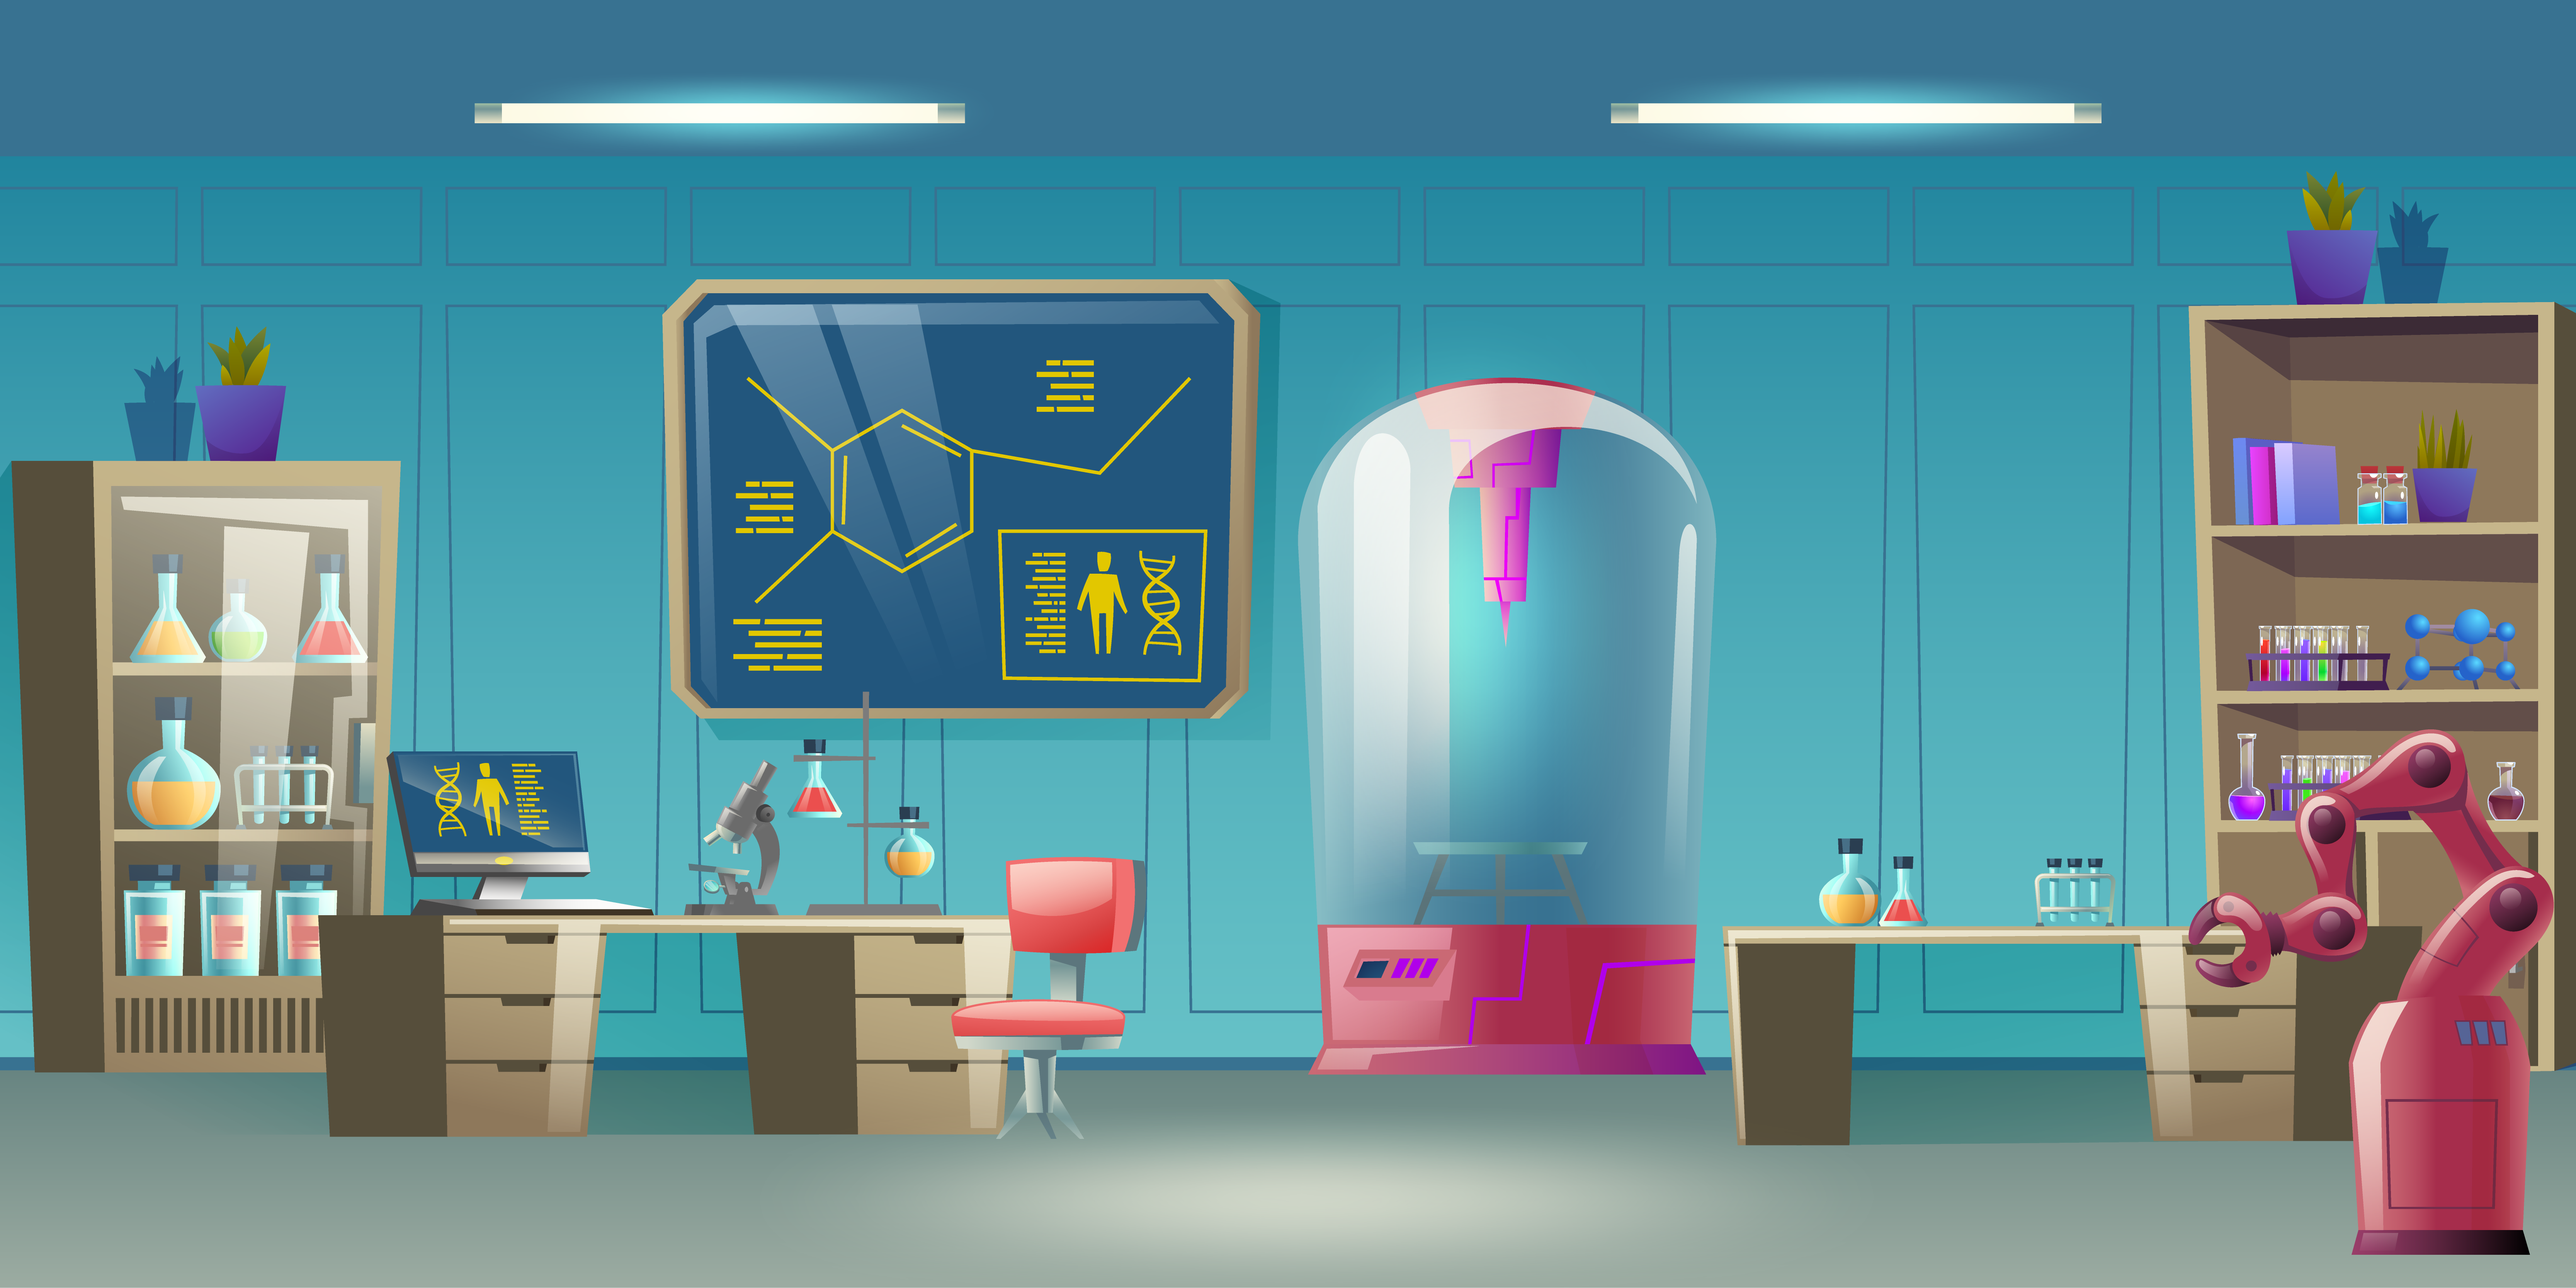
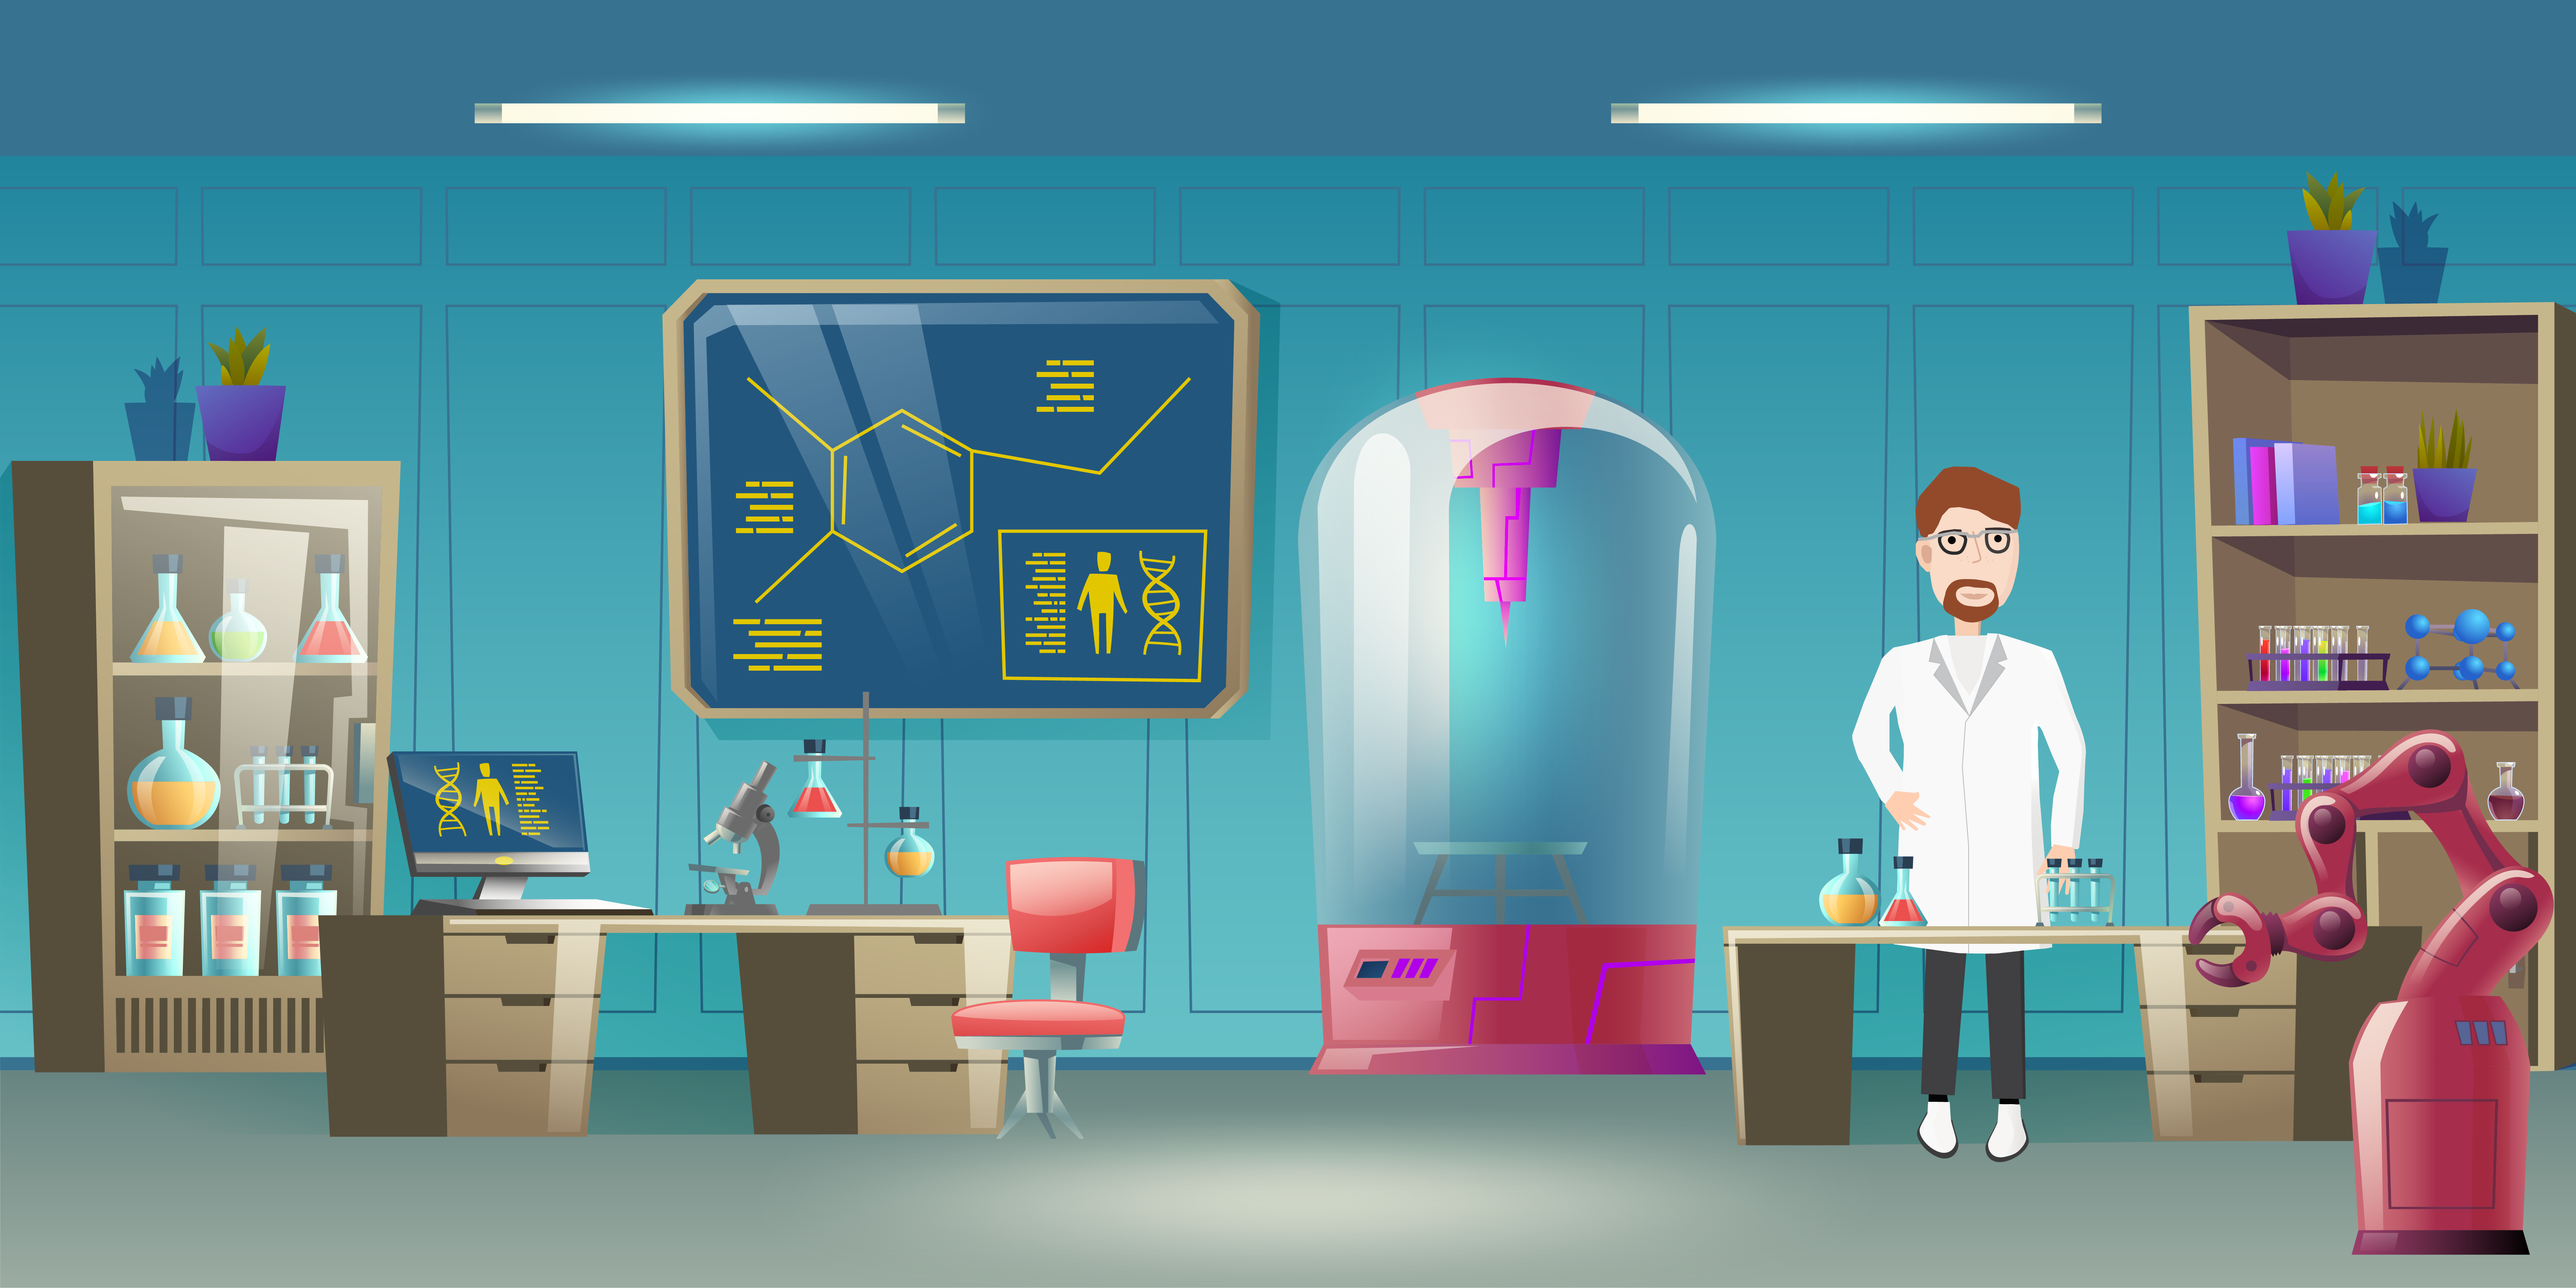
Hintergrund Szene 1 ersetzen

Changed region(s): [[0.7176, 0.3431, 0.8112, 0.9046]]

diff --git a/final/js/p5setup.js b/final/js/p5setup.js
@@ -14,8 +14,8 @@ let phoneButtonImage;
 let characterButtonEffect;
 let phoneButtonImageEffect;
 
-//Charaktere
-let mentor;
+// Charaktere
+// let mentor;
 
 //Schriftart Hack
 let myFont;
@@ -34,8 +34,8 @@ function preload() {
   characterButtonEffect = loadImage("png/objects/character2.png");
   phoneButtonImageEffect = loadImage("png/objects/phone2.png");
 
-  //Charaktere
-  mentor = loadImage("png/character/mentor.png");
+  // //Charaktere
+  // mentor = loadImage("png/character/mentor.png");
 
   //Schriftart
   myFont = loadFont("font/Hack-Regular.ttf");
@@ -68,4 +68,4 @@ export {
   phoneButtonImageEffect,
 };
 export { myFont };
-export { mentor };
+// export { mentor };

diff --git a/final/js/sketch.js b/final/js/sketch.js
@@ -8,7 +8,6 @@ import {
   characterButtonEffect,
   phoneButtonImage,
   phoneButtonImageEffect,
-  mentor,
 } from "./p5setup.js";
 
 import Button from "./button.js";
@@ -165,7 +164,7 @@ function draw() {
   switch (talkingHandler.activeTalk) {
     case talkingHandler.mentorTalking6:
       image(laboratoryBackground, 15, 15, 1300, 600, 150, 0, 6500, 3000);
-      image(mentor, 560, 260, 118, 350);
+      // image(mentor, 560, 260, 118, 350);
       break;
     case talkingHandler.mentorTalking7:
       image(laboratoryBackground, 15, 15, 1300, 600, 150, 0, 6500, 3000);
